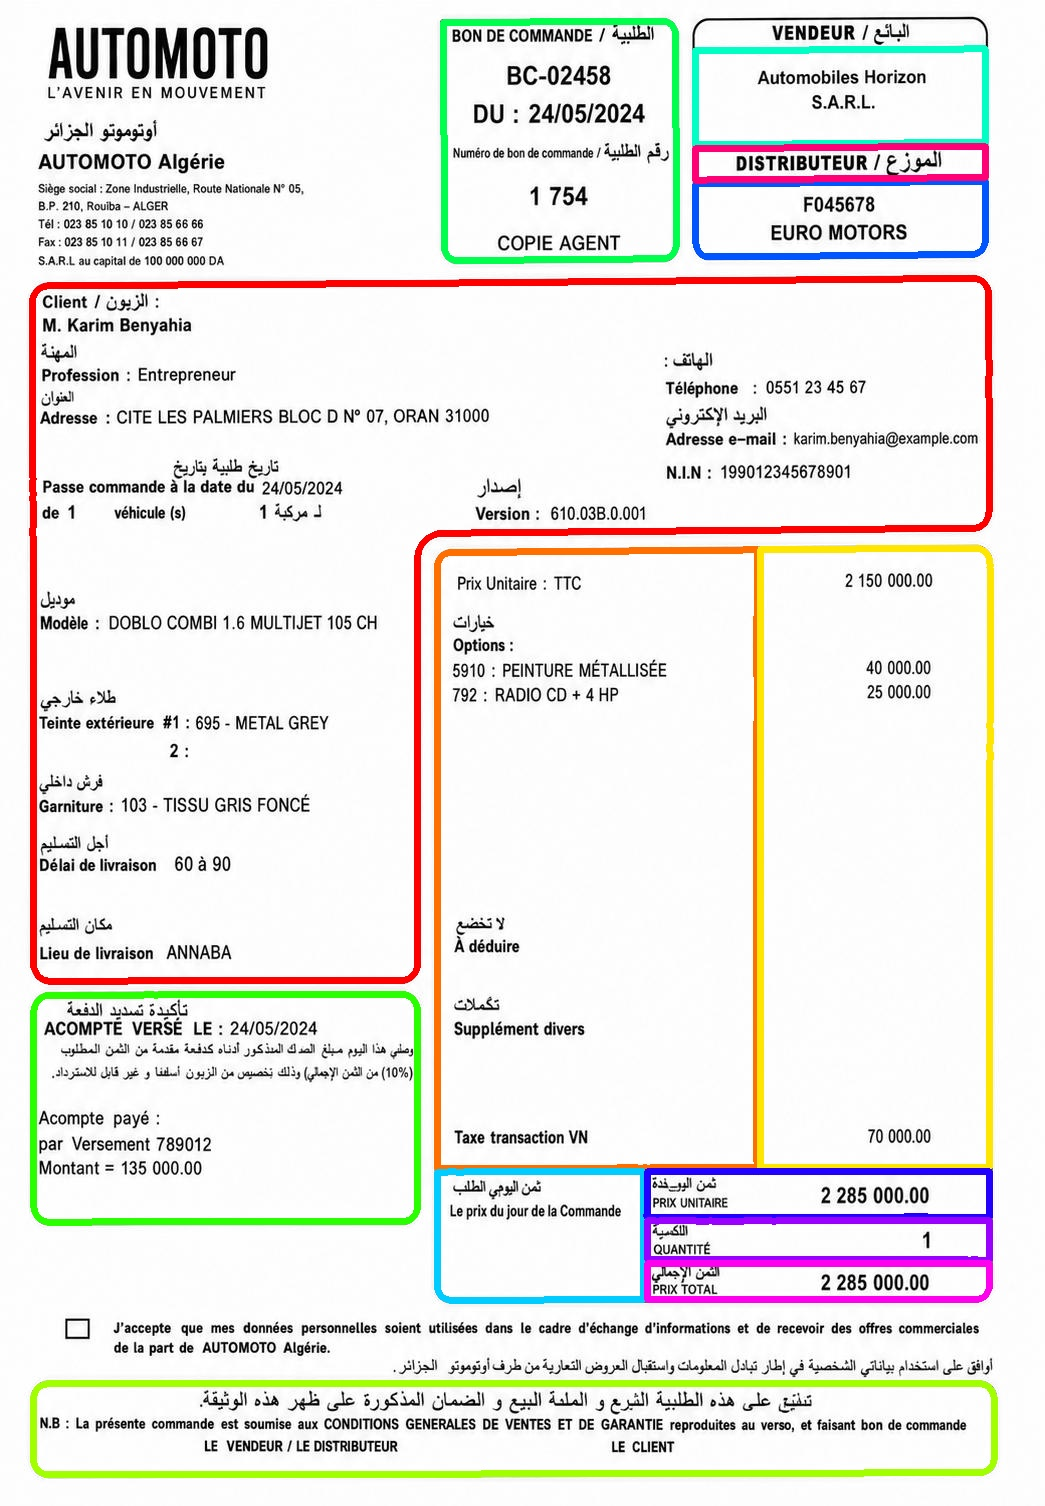
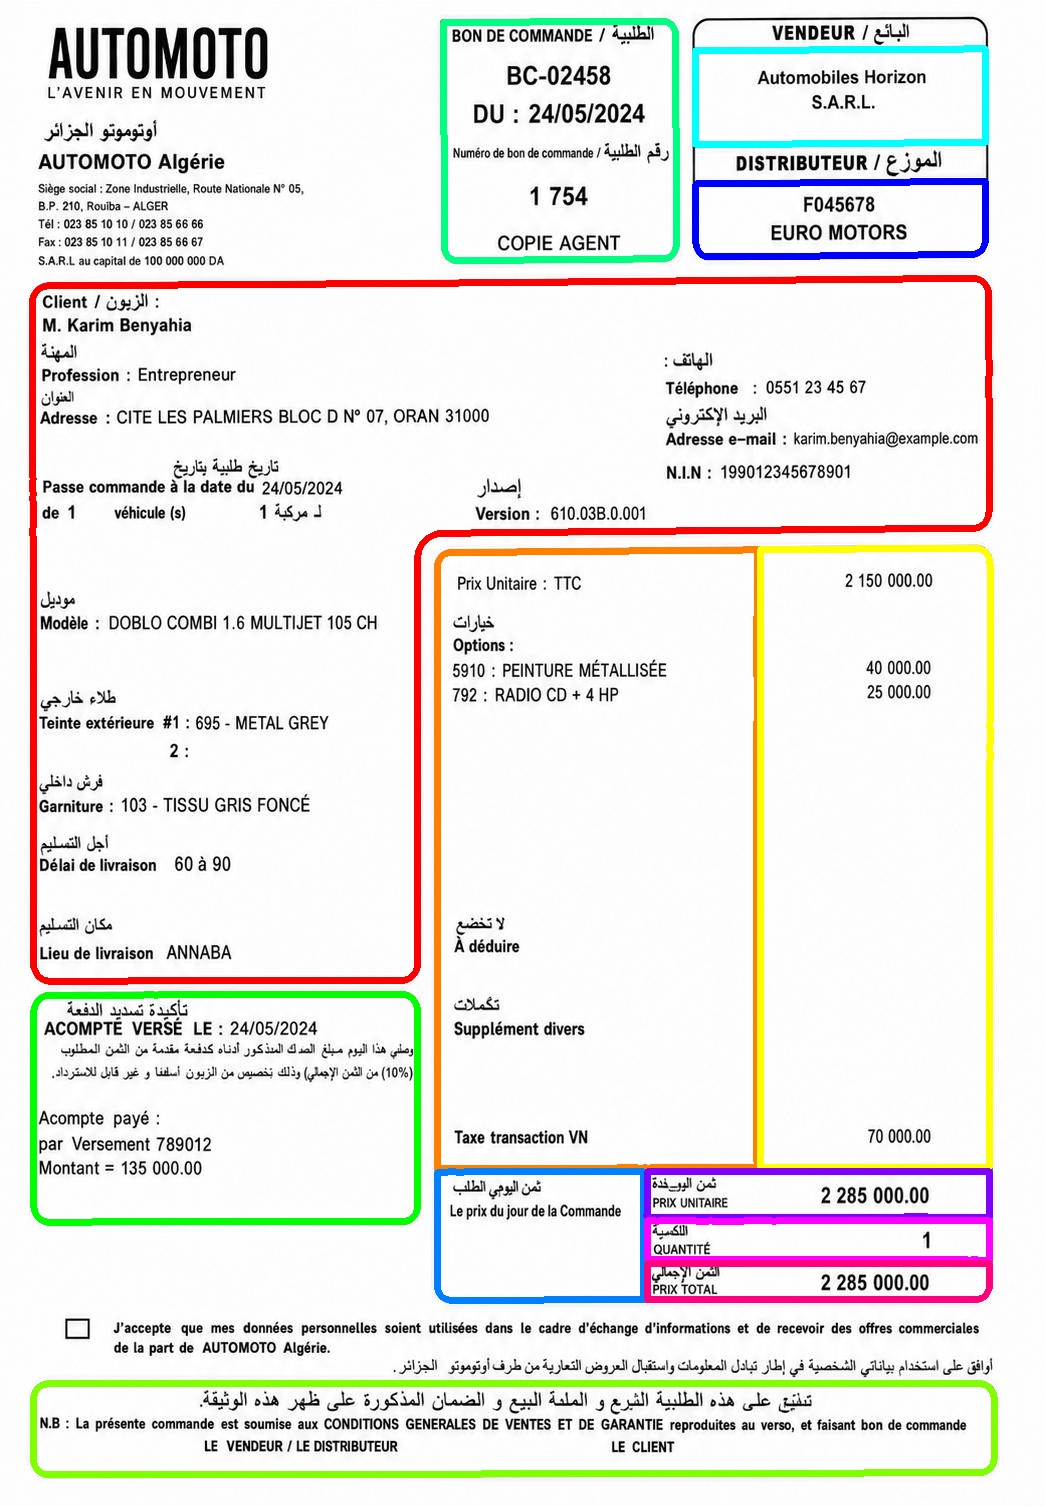
straight

diff --git a/straightflood.py b/straightflood.py
@@ -7,7 +7,7 @@ from pathlib import Path
 # ==========================
 
 INPUT_DIR = "examples"
-OUTPUT_DIR = "Results/floodFillResults"
+OUTPUT_DIR = "Results/straightFloodFillResults"
 
 Path(OUTPUT_DIR).mkdir(exist_ok=True)
 
@@ -37,9 +37,22 @@ for ext in extensions:
             10,
         )
 
-        # Close small gaps in borders
-        kernel = cv2.getStructuringElement(cv2.MORPH_RECT, (3, 3))
-        closed = cv2.morphologyEx(binary, cv2.MORPH_CLOSE, kernel)
+        # ------------------------------------------------
+        # Isolate long straight lines (box borders), discard text blobs
+        # ------------------------------------------------
+
+        # Long thin kernels: only survive if a run of white pixels is at least this long
+        horiz_kernel = cv2.getStructuringElement(cv2.MORPH_RECT, (25, 1))
+        vert_kernel = cv2.getStructuringElement(cv2.MORPH_RECT, (1, 25))
+
+        horiz_lines = cv2.morphologyEx(binary, cv2.MORPH_OPEN, horiz_kernel)
+        vert_lines = cv2.morphologyEx(binary, cv2.MORPH_OPEN, vert_kernel)
+
+        lines_only = cv2.bitwise_or(horiz_lines, vert_lines)
+
+        # Reconnect small gaps between line segments (corners, dashed lines)
+        close_kernel = cv2.getStructuringElement(cv2.MORPH_RECT, (7, 7))
+        closed = cv2.morphologyEx(lines_only, cv2.MORPH_CLOSE, close_kernel, iterations=2)
 
         # ------------------------------------------------
         # Flood fill from top-left (outside)
@@ -75,7 +88,10 @@ for ext in extensions:
         # Filter contours by area first, then draw each with a distinct color
         filtered = [c for c in contours if cv2.contourArea(c) >= MIN_AREA]
         for idx, c in enumerate(filtered):
-            # Use HSV hue wheel to pick visually distinct colors
+            # Approximate contour with straight line segments (preserves concave/L shapes)
+            epsilon = 0.01 * cv2.arcLength(c, True)   # tweak 0.005–0.02 to taste
+            c = cv2.approxPolyDP(c, epsilon, True)
+
             hsv_color = np.uint8([[[int((idx * 180) / max(1, len(filtered))), 255, 255]]])
             bgr = cv2.cvtColor(hsv_color, cv2.COLOR_HSV2BGR)[0, 0].tolist()
             color = (int(bgr[0]), int(bgr[1]), int(bgr[2]))

diff --git a/combi.py b/combi.py
@@ -122,7 +122,6 @@ for img_path in sorted(Path(INPUT_DIR).glob("*")):
     if img is None:
         continue
 
-    start_time = time.perf_counter()
     color_boxes = get_color_boxes(img)
     flood_boxes = get_flood_boxes(img)
     all_boxes = color_boxes + flood_boxes
@@ -145,8 +144,7 @@ for img_path in sorted(Path(INPUT_DIR).glob("*")):
         cv2.rectangle(result, (x, y), (x + w, y + h), color, 3)
         cv2.putText(result, str(idx + 1), (x + 5, y + 20), cv2.FONT_HERSHEY_SIMPLEX, 0.7, color, 2)
 
-    elapsed = time.perf_counter() - start_time
     cv2.imwrite(str(Path(OUTPUT_DIR) / img_path.name), result)
-    print(f"{img_path.name}: {len(final_boxes)} final boxes in {elapsed:.2f}s")
+    print(f"{img_path.name}: {len(final_boxes)} final boxes")
 
 print("Done.")
